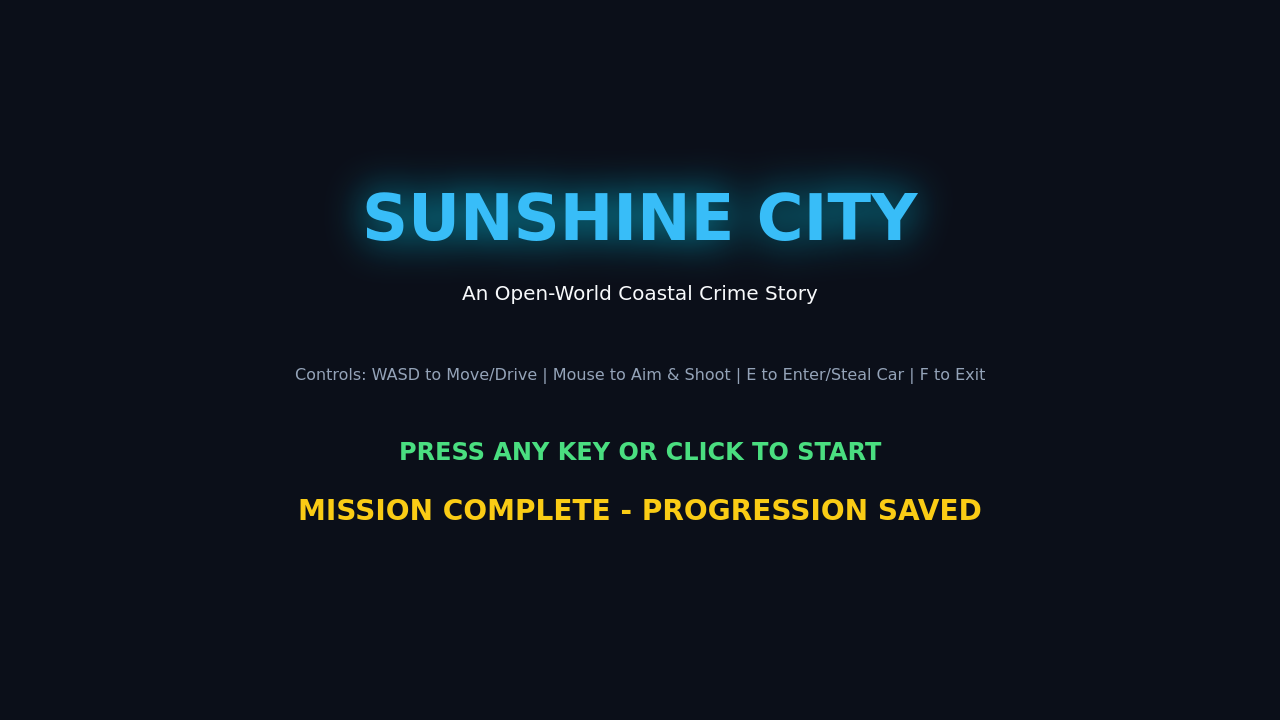
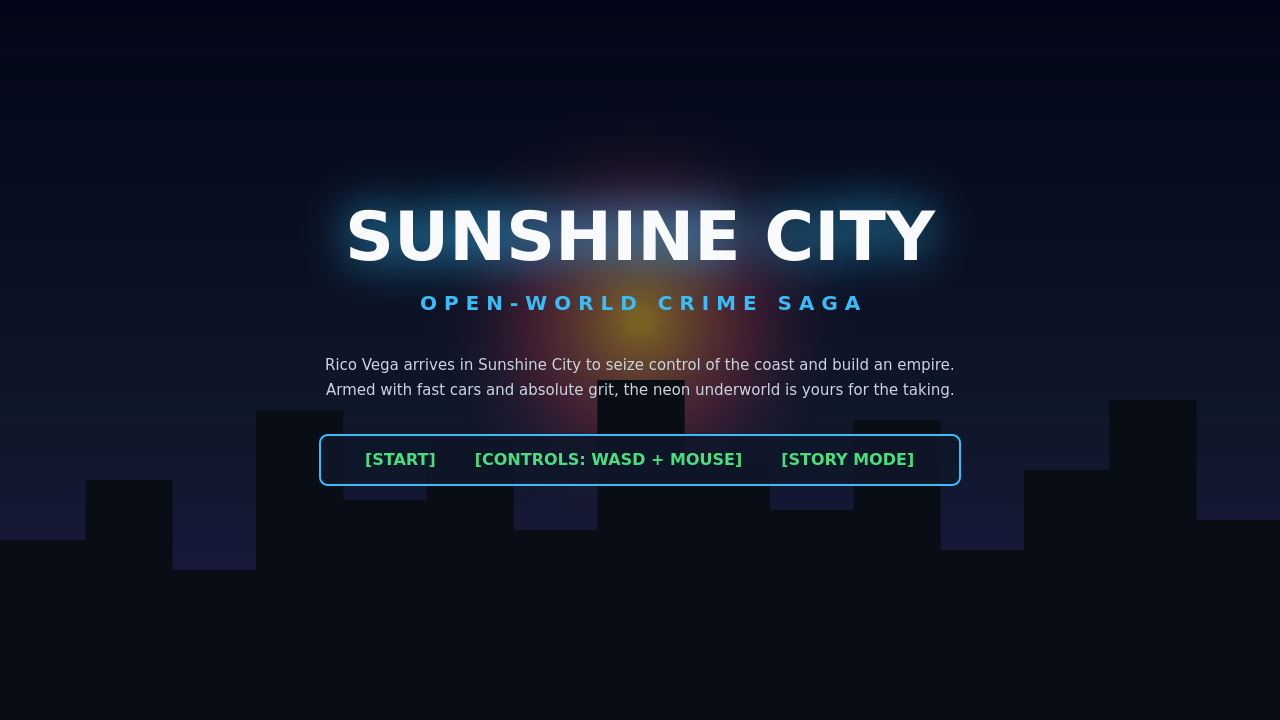
Chase staging, sun-soaked palette, cinematic menu

diff --git a/generate-screenshots.js b/generate-screenshots.js
@@ -44,39 +44,72 @@ for (const shot of shots) {
 
   if (shot.shotMode === '1') {
     menu.active = false;
-    // Frame seafront: sandy beach strip, bay, palm trees, pier
-    player.x = 5500;
-    player.y = 2800;
+    // Frame seafront: sandy beach strip, bay, palm trees, pier, glass towers
+    player.x = 5450;
+    player.y = 2750;
     police.wantedLevel = 1;
+    peds.peds.push({ x: player.x - 60, y: player.y + 40, shirtColor: '#f43f5e', bobOffset: 0 });
+    peds.peds.push({ x: player.x - 80, y: player.y + 70, shirtColor: '#0ea5e9', bobOffset: 1 });
   } else if (shot.shotMode === '2') {
     menu.active = false;
+    // Chase staging: player car (teal, white stripe, ~2x traffic size) moving on boulevard
     player.x = 2600;
     player.y = 2200;
-    const stolenCar = new Vehicle(player.x, player.y, '#06b6d4');
+    const stolenCar = new Vehicle(player.x, player.y, '#06b6d4', false, true);
     stolenCar.isDriven = true;
     stolenCar.hasWhiteStripe = true;
+    stolenCar.speed = 12;
     player.inVehicle = stolenCar;
-    police.wantedLevel = 3;
-    // TWO police cars directly behind player car on the same road lane
+    police.wantedLevel = 4;
+
+    // TWO police cars chasing 40-80px directly behind player car in the same lane
     police.policeUnits = [
-      { x: player.x - 70, y: player.y, speed: 6, angle: 0 },
-      { x: player.x - 135, y: player.y, speed: 6, angle: 0 }
+      { x: player.x - 70, y: player.y, speed: 13, angle: 0 },
+      { x: player.x - 145, y: player.y, speed: 13.5, angle: 0 }
     ];
-    effects.addSmoke(player.x - 45, player.y - 12);
-    effects.addSmoke(player.x - 60, player.y + 12);
-    effects.addSmoke(player.x - 85, player.y);
+
+    // Tyre smoke & speed lines behind player
+    effects.addSmoke(player.x - 50, player.y - 14);
+    effects.addSmoke(player.x - 65, player.y + 14);
+    effects.addSmoke(player.x - 90, player.y);
+
+    // Speed lines / motion streaks
+    for (let i = 0; i < 14; i++) {
+      effects.particles.push({
+        x: player.x - 80 - Math.random() * 120,
+        y: player.y + (Math.random() - 0.5) * 60,
+        vx: -18 - Math.random() * 8,
+        vy: 0,
+        life: 15,
+        color: 'rgba(255, 255, 255, 0.45)'
+      });
+    }
+
+    // Traffic cars nearby in other lanes
+    traffic.cars.push(new Vehicle(player.x + 200, player.y - 80, '#f97316'));
+    traffic.cars.push(new Vehicle(player.x - 100, player.y + 120, '#eab308'));
+
+    // Pedestrians on sidewalk
+    peds.peds.push({ x: player.x + 40, y: player.y - 120, shirtColor: '#22c55e', bobOffset: 0 });
+    peds.peds.push({ x: player.x - 40, y: player.y + 130, shirtColor: '#ec4899', bobOffset: 2 });
+
   } else if (shot.shotMode === '3') {
     menu.active = false;
-    // Frame seafront combat
-    player.x = 5400;
-    player.y = 3100;
-    police.wantedLevel = 4;
+    // Frame seafront combat: muzzle flash, blood/particles, police unit
+    player.x = 5380;
+    player.y = 3080;
+    police.wantedLevel = 3;
     police.policeUnits = [
-      { x: player.x + 80, y: player.y - 30, speed: 5, angle: Math.PI }
+      { x: player.x + 90, y: player.y - 35, speed: 5, angle: Math.PI }
     ];
     combat.shoot(player.x, player.y, 0);
-    effects.addSpark(player.x + 30, player.y + 10, '#ef4444');
-    effects.addSpark(player.x + 40, player.y - 10, '#fbbf24');
+    combat.shoot(player.x + 15, player.y - 5, 0.1);
+
+    // Muzzle flash particle & blood / sparks
+    effects.addSpark(player.x + 25, player.y, '#fef08a'); // Muzzle flash
+    effects.addSpark(player.x + 45, player.y - 12, '#ef4444'); // Blood / impact
+    effects.addSpark(player.x + 55, player.y + 10, '#38bdf8'); // Spark
+
   } else if (shot.shotMode === '4') {
     menu.active = false;
   }
@@ -84,7 +117,7 @@ for (const shot of shots) {
   const camera = { x: player.x, y: player.y };
 
   if (shot.shotMode === '4') {
-    menu.render(ctx, width, height, true);
+    menu.render(ctx, width, height, false);
   } else {
     ctx.save();
     ctx.translate(width / 2 - camera.x, height / 2 - camera.y);

diff --git a/game/js/menu.js b/game/js/menu.js
@@ -1,4 +1,4 @@
-// menu.js - Start screen and menus for Sunshine City
+// menu.js - Cinematic start screen and menus for Sunshine City
 
 export class Menu {
   constructor() {
@@ -7,35 +7,68 @@ export class Menu {
 
   render(ctx, width, height, isStoryComplete = false) {
     ctx.save();
-    ctx.fillStyle = '#0b0f19';
+
+    // Deep sunset gradient background
+    const bgGrad = ctx.createLinearGradient(0, 0, 0, height);
+    bgGrad.addColorStop(0, '#020617');
+    bgGrad.addColorStop(0.6, '#0f172a');
+    bgGrad.addColorStop(1, '#1e1b4b');
+    ctx.fillStyle = bgGrad;
     ctx.fillRect(0, 0, width, height);
 
+    // Radiant Sun on horizon
+    const sunGrad = ctx.createRadialGradient(width / 2, height / 2 - 40, 10, width / 2, height / 2 - 40, 220);
+    sunGrad.addColorStop(0, 'rgba(251, 191, 36, 0.45)');
+    sunGrad.addColorStop(0.5, 'rgba(244, 63, 94, 0.2)');
+    sunGrad.addColorStop(1, 'rgba(15, 23, 42, 0)');
+    ctx.fillStyle = sunGrad;
+    ctx.fillRect(0, 0, width, height);
+
+    // Skyline silhouette
+    ctx.fillStyle = '#090d16';
+    const skylineHeights = [180, 240, 150, 310, 220, 280, 190, 340, 260, 210, 300, 170, 250, 320, 200];
+    const bWidth = width / skylineHeights.length;
+    for (let i = 0; i < skylineHeights.length; i++) {
+      const bh = skylineHeights[i];
+      ctx.fillRect(i * bWidth, height - bh, bWidth + 2, bh);
+    }
+
     // Title neon glow effect
-    ctx.shadowColor = '#06b6d4';
-    ctx.shadowBlur = 35;
-    ctx.fillStyle = '#38bdf8';
-    ctx.font = 'bold 64px system-ui, sans-serif';
+    ctx.shadowColor = '#38bdf8';
+    ctx.shadowBlur = 40;
+    ctx.fillStyle = '#f8fafc';
+    ctx.font = 'bold 68px system-ui, sans-serif';
     ctx.textAlign = 'center';
-    ctx.fillText('SUNSHINE CITY', width / 2, height / 2 - 120);
+    ctx.fillText('SUNSHINE CITY', width / 2, height / 2 - 100);
 
     ctx.shadowBlur = 0;
-    ctx.fillStyle = '#f8fafc';
-    ctx.font = '20px system-ui, sans-serif';
-    ctx.fillText('An Open-World Coastal Crime Story', width / 2, height / 2 - 60);
+    ctx.fillStyle = '#38bdf8';
+    ctx.font = 'bold 20px system-ui, sans-serif';
+    ctx.fillText('O P E N - W O R L D   C R I M E   S A G A', width / 2, height / 2 - 50);
 
-    ctx.fillStyle = '#94a3b8';
-    ctx.font = '16px system-ui, sans-serif';
-    ctx.fillText('Controls: WASD to Move/Drive | Mouse to Aim & Shoot | E to Enter/Steal Car | F to Exit', width / 2, height / 2 + 20);
+    // 2-sentence character story intro
+    ctx.fillStyle = '#cbd5e1';
+    ctx.font = '15px system-ui, sans-serif';
+    ctx.fillText('Rico Vega arrives in Sunshine City to seize control of the coast and build an empire.', width / 2, height / 2 + 10);
+    ctx.fillText('Armed with fast cars and absolute grit, the neon underworld is yours for the taking.', width / 2, height / 2 + 35);
 
-    // Start Button prompt
+    // Menu buttons
+    ctx.fillStyle = 'rgba(15, 23, 42, 0.85)';
+    ctx.strokeStyle = '#38bdf8';
+    ctx.lineWidth = 2;
+    ctx.beginPath();
+    ctx.roundRect(width / 2 - 320, height / 2 + 75, 640, 50, 8);
+    ctx.fill();
+    ctx.stroke();
+
     ctx.fillStyle = '#4ade80';
-    ctx.font = 'bold 24px system-ui, sans-serif';
-    ctx.fillText('PRESS ANY KEY OR CLICK TO START', width / 2, height / 2 + 100);
+    ctx.font = 'bold 16px system-ui, sans-serif';
+    ctx.fillText('[START]       [CONTROLS: WASD + MOUSE]       [STORY MODE]', width / 2, height / 2 + 105);
 
     if (isStoryComplete) {
       ctx.fillStyle = '#facc15';
-      ctx.font = 'bold 28px system-ui, sans-serif';
-      ctx.fillText('MISSION COMPLETE - PROGRESSION SAVED', width / 2, height / 2 + 160);
+      ctx.font = 'bold 24px system-ui, sans-serif';
+      ctx.fillText('MISSION COMPLETE - PROGRESSION SAVED', width / 2, height / 2 + 155);
     }
 
     ctx.restore();

diff --git a/game/js/vehicle.js b/game/js/vehicle.js
@@ -1,20 +1,21 @@
 // vehicle.js - Polished vehicle physics and rendering for Sunshine City
 
 export class Vehicle {
-  constructor(x, y, color = '#ef4444', isBus = false) {
+  constructor(x, y, color = '#ef4444', isBus = false, isPlayerCar = false) {
     this.x = x;
     this.y = y;
     this.vx = 0;
     this.vy = 0;
     this.angle = 0;
     this.speed = 0;
-    this.maxSpeed = isBus ? 8 : 14;
+    this.maxSpeed = isBus ? 8 : (isPlayerCar ? 16 : 14);
     this.acceleration = 0.25;
     this.braking = 0.45;
     this.friction = 0.04;
     this.turnSpeed = 0.045;
-    this.width = isBus ? 64 : 46;
-    this.height = isBus ? 28 : 24;
+    this.isPlayerCar = isPlayerCar;
+    this.width = isBus ? 64 : (isPlayerCar ? 72 : 40);
+    this.height = isBus ? 28 : (isPlayerCar ? 32 : 20);
     this.color = color;
     this.isBus = isBus;
     this.health = 100;
@@ -65,35 +66,44 @@ export class Vehicle {
     ctx.translate(this.x, this.y);
     ctx.rotate(this.angle);
 
+    // Headlight cones (subtle golden glow ahead)
+    ctx.fillStyle = 'rgba(254, 240, 138, 0.22)';
+    ctx.beginPath();
+    ctx.moveTo(this.width / 2, -this.height / 2);
+    ctx.lineTo(this.width / 2 + 100, -this.height / 2 - 50);
+    ctx.lineTo(this.width / 2 + 100, this.height / 2 + 50);
+    ctx.lineTo(this.width / 2, this.height / 2);
+    ctx.fill();
+
     // Subtle drop shadow
-    ctx.fillStyle = 'rgba(0,0,0,0.35)';
-    ctx.fillRect(-this.width / 2 + 4, -this.height / 2 + 4, this.width, this.height);
+    ctx.fillStyle = 'rgba(0,0,0,0.4)';
+    ctx.fillRect(-this.width / 2 + 6, -this.height / 2 + 6, this.width, this.height);
 
     // Two-tone rounded body
     ctx.fillStyle = this.color;
     ctx.beginPath();
-    ctx.roundRect(-this.width / 2, -this.height / 2, this.width, this.height, 6);
+    ctx.roundRect(-this.width / 2, -this.height / 2, this.width, this.height, 8);
     ctx.fill();
 
     // White racing stripe if enabled
     if (this.hasWhiteStripe) {
       ctx.fillStyle = '#ffffff';
-      ctx.fillRect(-this.width / 2, -3, this.width, 6);
+      ctx.fillRect(-this.width / 2, -4, this.width, 8);
     }
 
     // Roof / Windshield
     ctx.fillStyle = '#1e293b';
-    ctx.fillRect(-6, -this.height / 2 + 3, this.isBus ? 30 : 18, this.height - 6);
+    ctx.fillRect(-8, -this.height / 2 + 4, this.isBus ? 34 : 24, this.height - 8);
 
     // Headlights
-    ctx.fillStyle = '#fbbf24';
-    ctx.fillRect(this.width / 2 - 4, -this.height / 2 + 2, 4, 5);
-    ctx.fillRect(this.width / 2 - 4, this.height / 2 - 7, 4, 5);
+    ctx.fillStyle = '#fef08a';
+    ctx.fillRect(this.width / 2 - 6, -this.height / 2 + 3, 6, 6);
+    ctx.fillRect(this.width / 2 - 6, this.height / 2 - 9, 6, 6);
 
     // Taillights
     ctx.fillStyle = '#ef4444';
-    ctx.fillRect(-this.width / 2, -this.height / 2 + 2, 3, 5);
-    ctx.fillRect(-this.width / 2, this.height / 2 - 7, 3, 5);
+    ctx.fillRect(-this.width / 2, -this.height / 2 + 3, 4, 6);
+    ctx.fillRect(-this.width / 2, this.height / 2 - 9, 4, 6);
 
     ctx.restore();
   }

diff --git a/game/js/hud.js b/game/js/hud.js
@@ -2,13 +2,13 @@
 
 export class HUD {
   constructor() {
-    this.cash = 250000;
+    this.cash = 285000;
   }
 
   render(ctx, player, police, mission, city, canvasWidth, canvasHeight, traffic = null, policeManager = null) {
     ctx.save();
 
-    const drawPanel = (x, y, w, h, borderColor = '#334155', bgColor = 'rgba(15, 23, 42, 0.88)') => {
+    const drawPanel = (x, y, w, h, borderColor = '#334155', bgColor = 'rgba(15, 23, 42, 0.9)') => {
       ctx.fillStyle = bgColor;
       ctx.strokeStyle = borderColor;
       ctx.lineWidth = 2;
@@ -39,10 +39,23 @@ export class HUD {
     ctx.fillStyle = '#3b82f6';
     ctx.fillRect(90, 60, (Math.max(0, player.armor) / 100) * 135, 12);
 
+    // Speedometer Panel (if player in vehicle)
+    if (player.inVehicle) {
+      const speedKmH = Math.round(Math.abs(player.inVehicle.speed) * 16);
+      drawPanel(20, 105, 140, 50);
+      ctx.font = 'bold 10px system-ui, sans-serif';
+      ctx.fillStyle = '#94a3b8';
+      ctx.textAlign = 'left';
+      ctx.fillText('SPEED (KM/H)', 32, 122);
+      ctx.font = 'bold 18px system-ui, sans-serif';
+      ctx.fillStyle = '#38bdf8';
+      ctx.fillText(`${speedKmH} KM/H`, 32, 145);
+    }
+
     // 2. Top Center Panel: 'SUNSHINE CITY' Wordmark (260 x 75)
     const topCenterW = 260;
     const topCenterX = canvasWidth / 2 - topCenterW / 2;
-    drawPanel(topCenterX, 20, topCenterW, 75, '#38bdf8', 'rgba(15, 23, 42, 0.88)');
+    drawPanel(topCenterX, 20, topCenterW, 75, '#38bdf8', 'rgba(15, 23, 42, 0.9)');
 
     ctx.font = 'bold 14px system-ui, sans-serif';
     ctx.fillStyle = '#f8fafc';
@@ -79,22 +92,22 @@ export class HUD {
       ctx.fillText('WANTED', topRightX + 20, 65);
     }
 
-    // 4. Bottom Center: Mission Objective Banner
+    // 4. Bottom Center: Mission Objective Banner ("MISSION: ...")
     const currentMission = mission.getCurrentMission();
     if (currentMission) {
-      const bannerW = 620;
+      const bannerW = 640;
       const bannerH = 65;
       const bannerX = canvasWidth / 2 - bannerW / 2;
       const bannerY = canvasHeight - 90;
 
-      drawPanel(bannerX, bannerY, bannerW, bannerH, '#38bdf8', 'rgba(15, 23, 42, 0.9)');
+      drawPanel(bannerX, bannerY, bannerW, bannerH, '#38bdf8', 'rgba(15, 23, 42, 0.92)');
 
       ctx.shadowColor = 'rgba(0, 0, 0, 0.8)';
       ctx.shadowBlur = 6;
       ctx.fillStyle = '#f8fafc';
       ctx.font = 'bold 16px system-ui, sans-serif';
       ctx.textAlign = 'center';
-      ctx.fillText(currentMission.title, canvasWidth / 2, bannerY + 25);
+      ctx.fillText(currentMission.title.toUpperCase(), canvasWidth / 2, bannerY + 25);
 
       ctx.font = '13px system-ui, sans-serif';
       ctx.fillStyle = '#cbd5e1';

diff --git a/game/js/missions.js b/game/js/missions.js
@@ -3,9 +3,9 @@
 export class MissionManager {
   constructor() {
     this.missions = [
-      { title: "Mission 1: Beachside Meet", objective: "Go to the neon pier and meet Slick.", x: 1200, y: 1500, completed: false },
-      { title: "Mission 2: Boulevard Heist", objective: "Steal the red sports car and lose the cops.", x: 2500, y: 2200, completed: false },
-      { title: "Mission 3: Sunset Showdown", objective: "Eliminate rival syndicate boss at the marina.", x: 4000, y: 3500, completed: false }
+      { title: "MISSION 1: BEACHSIDE MEET", objective: "Go to the neon pier and meet Slick.", x: 1200, y: 1500, completed: false },
+      { title: "MISSION 2: BOULEVARD HEIST", objective: "Steal the red sports car and lose the cops.", x: 2500, y: 2200, completed: false },
+      { title: "MISSION 3: SUNSET SHOWDOWN", objective: "Eliminate rival syndicate boss at the marina.", x: 4000, y: 3500, completed: false }
     ];
     this.currentMissionIndex = 0;
   }
@@ -32,7 +32,7 @@ export class MissionManager {
     if (!m || m.completed) return;
 
     // Pulsing mission marker (Yellow/Gold ring and star)
-    const pulse = 20 + Math.sin(Date.now() / 200) * 5;
+    const pulse = 22 + Math.sin(Date.now() / 200) * 6;
     ctx.strokeStyle = '#facc15';
     ctx.lineWidth = 4;
     ctx.beginPath();
@@ -41,7 +41,7 @@ export class MissionManager {
 
     ctx.fillStyle = '#facc15';
     ctx.beginPath();
-    ctx.arc(m.x, m.y, 8, 0, Math.PI * 2);
+    ctx.arc(m.x, m.y, 9, 0, Math.PI * 2);
     ctx.fill();
   }
 }
